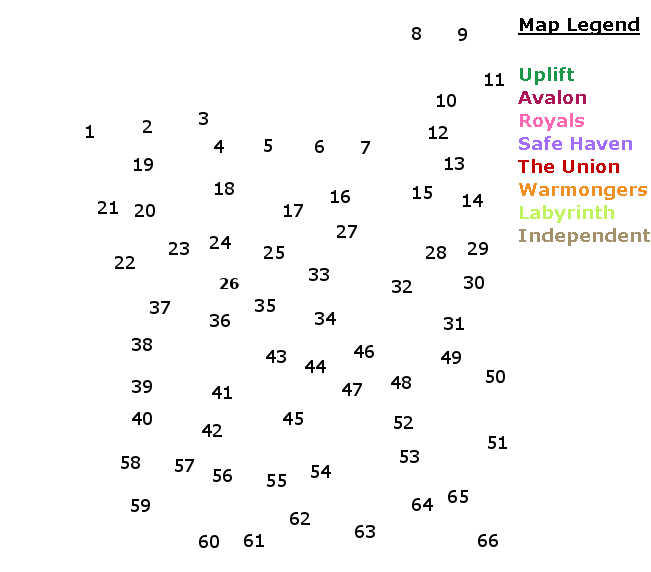
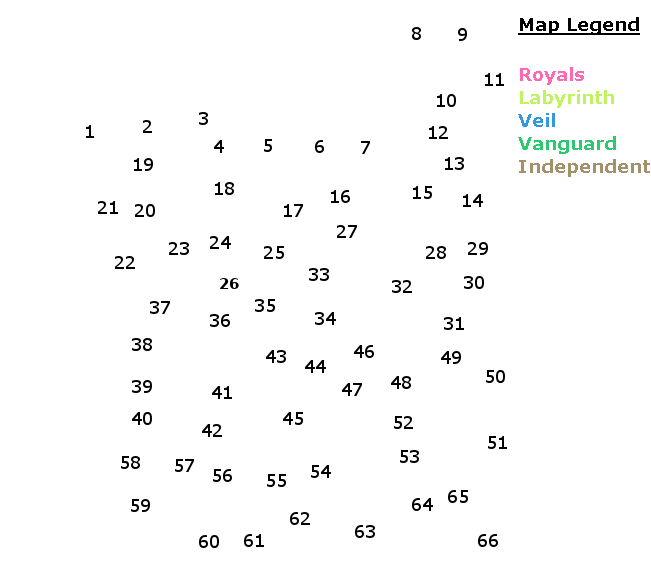
map update

Changed region(s): [[0.7988, 0.1189, 1.0, 0.4458]]

diff --git a/Kingfisher.py b/Kingfisher.py
@@ -41,13 +41,15 @@ version="0.2.1 Turn Tracker"
 #TODO: add server configuration
 
 #gh stuff
-gh_factions={"labyrinth":ImageColor.getrgb("#bff360"), "warmongers":ImageColor.getrgb("#f18f22"),"haven":ImageColor.getrgb("#a26cfc"),"union":ImageColor.getrgb("#c40000"),"stronghold":ImageColor.getrgb("#7498b4") ,"royals":ImageColor.getrgb("#ff69b4"),
-"avalon":(173, 20, 87),"uplift":(26, 151, 73), "neutral":(255,255,255), "independent":(163, 145, 108)}
+gh_factions={"vanguard":ImageColor.getrgb("#2ec870"),"veil":ImageColor.getrgb("#3498db"),"royals":ImageColor.getrgb("#ff69b4"),"labyrinth":ImageColor.getrgb("#bff360"),"neutral":(255,255,255), "independent":(163, 145, 108)}
+#"x":ImageColor.getrgb("x"),
 
 #old factions: "division":(76, 140, 255), "prestige":(179, 86, 243), "daybreak":(236,42,18), "elite":(241, 196, 15),
 # "demons":ImageColor.getrgb("#ff7a00"),"valhalla":(241, 196, 15),
 #"court":(101, 111, 255),"dominion":(192, 49, 53),"children":(155, 89, 182),"fixers":ImageColor.getrgb("#f8e900"),
 #"prosperity":ImageColor.getrgb("#d4af37") "safeguard":ImageColor.getrgb("#8f34e2")
+#"warmongers":ImageColor.getrgb("#f18f22"),"haven":ImageColor.getrgb("#a26cfc"),"union":ImageColor.getrgb("#c40000"),"stronghold":ImageColor.getrgb("#7498b4") ,
+#"avalon":(173, 20, 87),"uplift":(26, 151, 73),
 
 gh_areas=[(100,122),(132.67,120),(192,118.6666667),(234.6666667,140.6666667),(268.6666667,165.3333333),(313.3333333,129.3333333),(372.6666667,126),(429.3333333,60),
 (473.3333333,20),(458.6666667,81.33333333),(498.6666667,53.33333333),(477.3333333,130),(482,162.6666667),(492,217.3333333),(415.3333333,207.3333333),(369.3333333,192),
@@ -1722,12 +1724,13 @@ async def start(ctx):
     turn_tracker[chan]["started"]=True
     cur_turn=turn_tracker[chan]["turn"]
     cur_round=turn_tracker[chan]["round"]
+    #await ctx.invoke(end,"True",start)
     if cur_round==1 and cur_turn==0:
         await ctx.send(f"<@!{turn_tracker[chan]['order'][cur_turn][0]}> goes first!")
         turn_tracker[chan].update({"turn":cur_turn+1})
 
 @bot.command( description="Once you have finished your turn, simply use >end")
-async def end(ctx, force=False,invoked=False):
+async def end(ctx, force=False,invoked=False,): #start=False
 
     chan=ctx.channel.id
     cur_turn=turn_tracker[chan]["turn"]
@@ -1806,7 +1809,7 @@ async def kick(ctx,*user):
             if turn_tracker[chan]['order'][cur_turn-1][0]==i[0]:
                 turn_tracker[chan]["order"].remove(i)
                 await ctx.message.add_reaction("✅")
-                
+                turn_tracker[chan]["turn"]-=1
                 await ctx.invoke(end,"True",True)
                 # making sure the turns move on correctly
                 # if turn_tracker[chan]["turn"]>=len(turn_tracker[chan]["order"]):
@@ -1845,6 +1848,7 @@ async def kick(ctx,*user):
     for i in turn_tracker[chan]["order"]:
         if usr.id==i[0]:
             turn_tracker[chan]["order"].remove(i)
+            turn_tracker[chan]["turn"]-=1
             await ctx.send(f"<@!{usr.id}> has been removed on Turn {turn_tracker[chan]['turn']}, Round {turn_tracker[chan]['round']}")
             return
     
